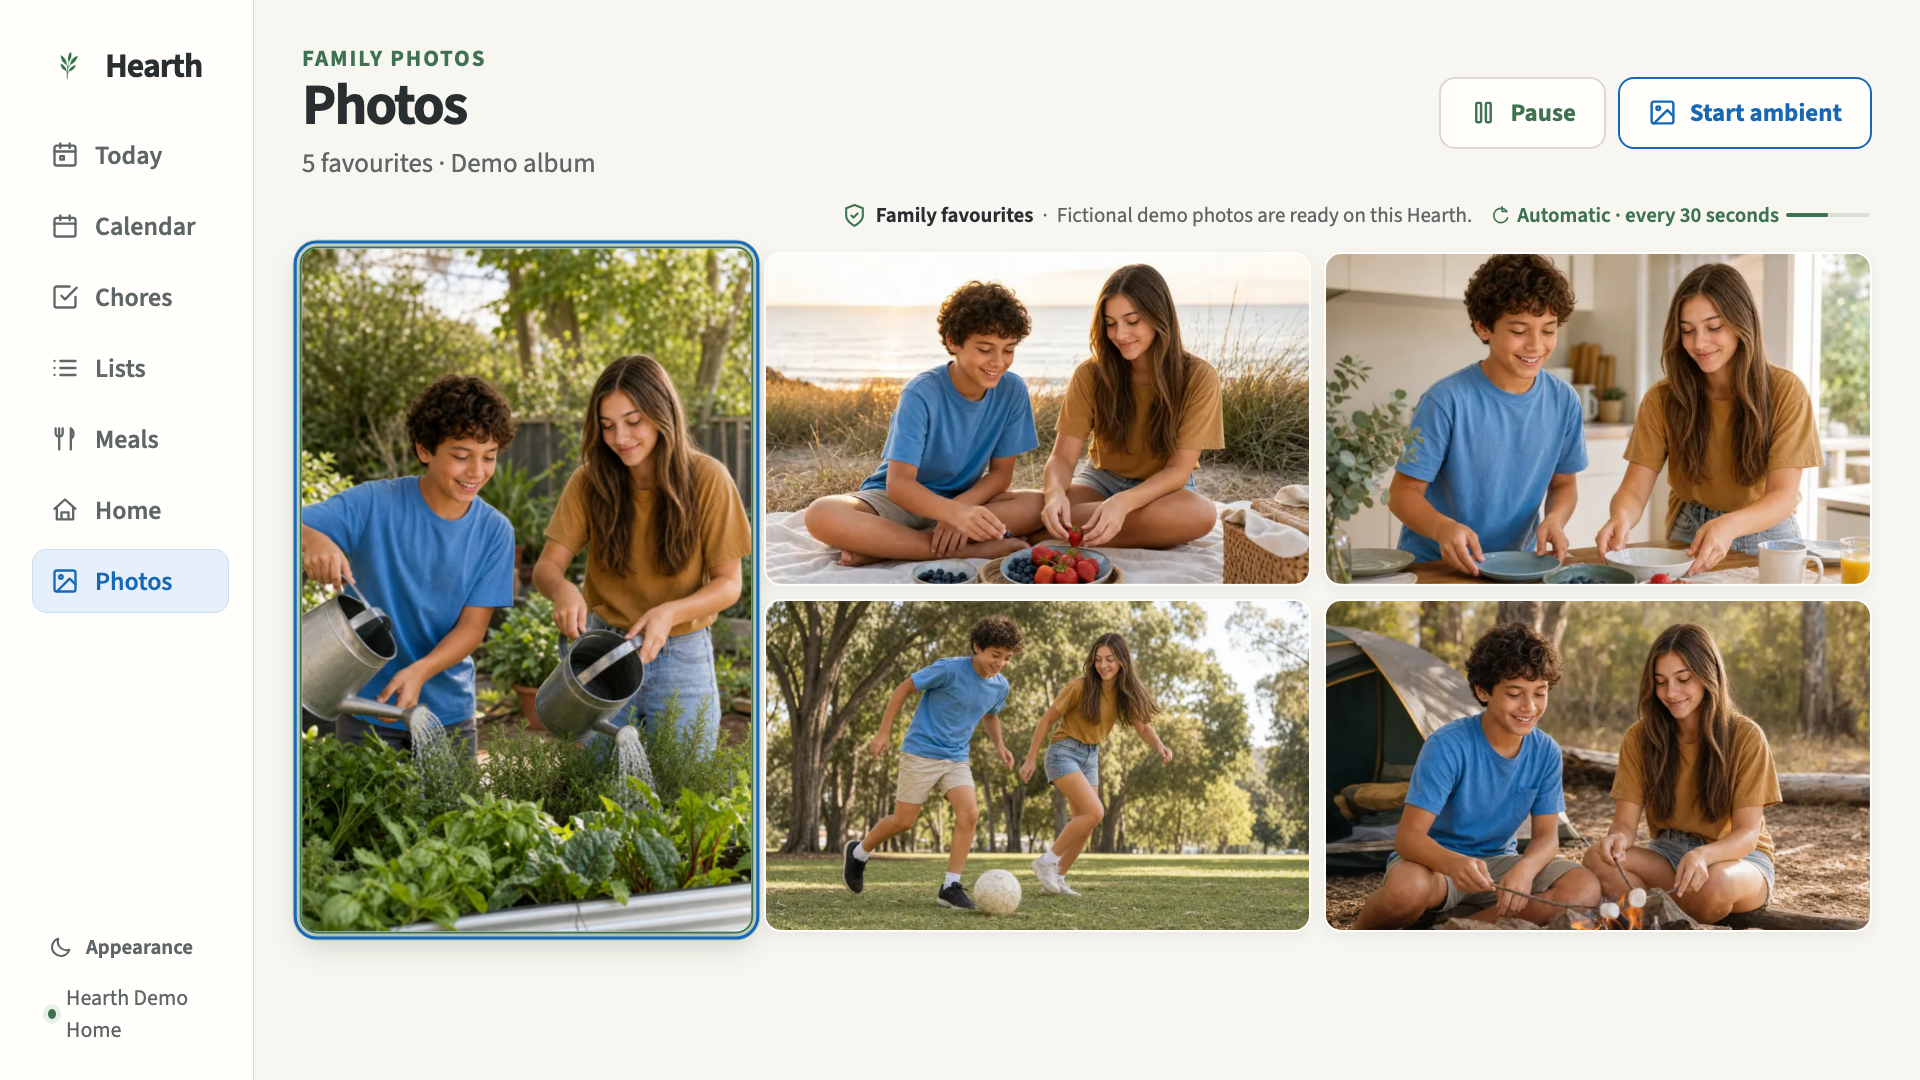
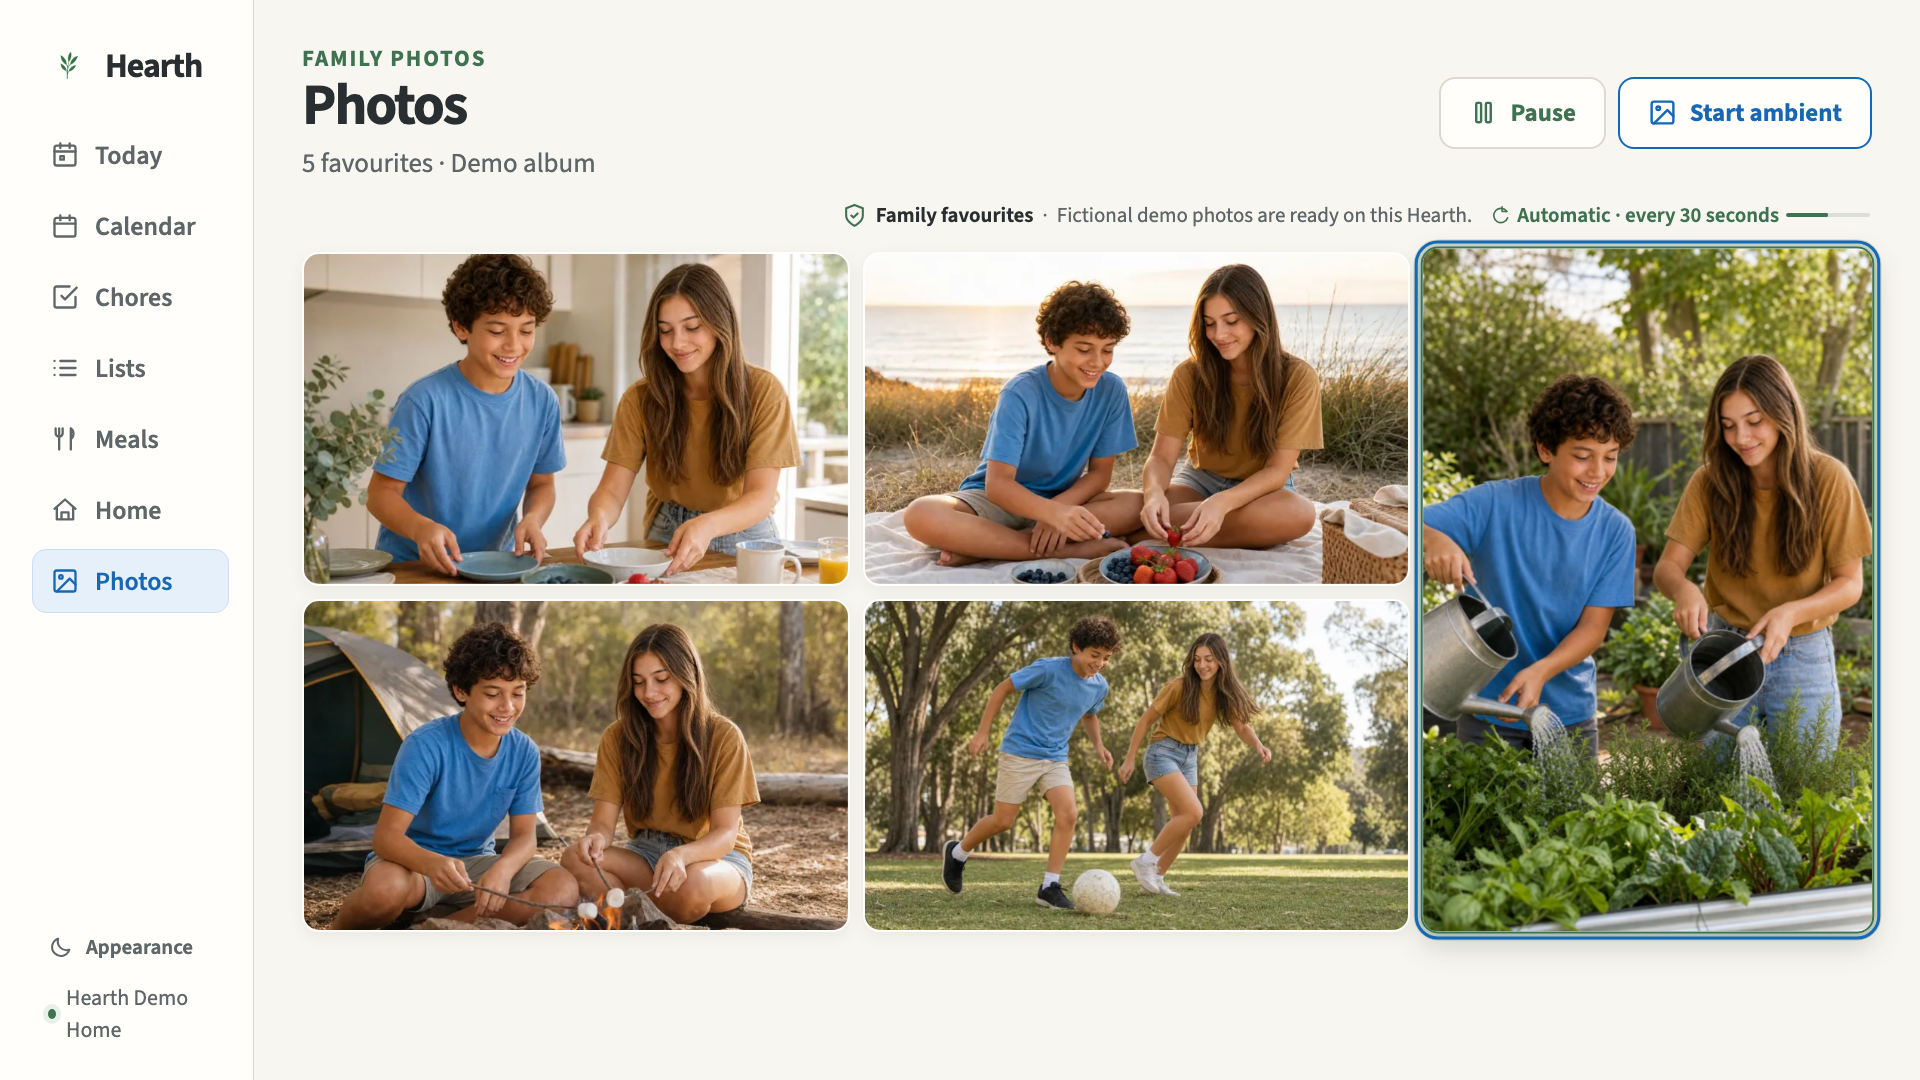
Alternate automatic photo collage layouts

diff --git a/hearth/apps/web/src/screens/PhotosScreen.tsx b/hearth/apps/web/src/screens/PhotosScreen.tsx
@@ -17,10 +17,13 @@ import { useHouseholdClock } from '../hooks/useHouseholdClock';
 import { useOnlineStatus } from '../hooks/useOnlineStatus';
 import {
   arrangePhotoCollage,
+  PHOTO_COLLAGE_SIZE,
   nextPhotoId,
   PHOTO_COLLAGE_ROTATION_MS,
+  photoCollageFeatureSide,
   photoCollageMode,
   type PhotoCollageItem,
+  type PhotoCollageFeatureSide,
   type PhotoCollageSlot,
 } from './photoCollage';
 
@@ -62,6 +65,11 @@ export function PhotosScreen({
   const collageItems = arrangePhotoCollage(gallery?.photos ?? [], selected?.id ?? null);
   const collageMode =
     collageItems[0] === undefined ? 'landscape' : photoCollageMode(collageItems[0].photo);
+  const collageFeatureSide = photoCollageFeatureSide(
+    gallery?.photos ?? [],
+    collageItems[0]?.photo.id ?? null,
+    gallery?.featuredPhotoId ?? gallery?.photos[0]?.id ?? null,
+  );
   const visibleCollageItems = compactLandscape ? collageItems.slice(0, 3) : collageItems;
 
   useEffect(() => {
@@ -266,7 +274,7 @@ export function PhotosScreen({
       <div className="photos-layout">
         <div
           aria-label="Family photos. The featured photo and collage arrangement change about once every 30 seconds."
-          className={`photos-grid photos-collage photos-collage--${collageMode} photos-collage--count-${visibleCollageItems.length}`}
+          className={`photos-grid photos-collage photos-collage--${collageMode} photos-collage--feature-${collageFeatureSide} photos-collage--count-${visibleCollageItems.length}`}
         >
           {visibleCollageItems.map((item) => (
             <PhotoThumbnail
@@ -275,6 +283,7 @@ export function PhotosScreen({
               key={item.slot}
               onSelect={() => selectPhoto(item.photo.id)}
               selected={item.photo.id === selected?.id}
+              featureSide={collageFeatureSide}
             />
           ))}
         </div>
@@ -321,14 +330,16 @@ function PhotoThumbnail({
   items,
   onSelect,
   selected,
+  featureSide,
 }: {
   item: PhotoCollageItem;
   items: PhotoCollageItem[];
   onSelect: () => void;
   selected: boolean;
+  featureSide: PhotoCollageFeatureSide;
 }) {
   const { photo, slot } = item;
-  const links = collageFocusLinks(slot, items);
+  const links = collageFocusLinks(slot, items, featureSide);
   const featured = slot === 'feature';
   return (
     <button
@@ -362,6 +373,7 @@ function PhotoThumbnail({
 function collageFocusLinks(
   slot: PhotoCollageSlot,
   items: PhotoCollageItem[],
+  featureSide: PhotoCollageFeatureSide,
 ): { up: string; down: string; left: string; right: string } {
   const bySlot = new Map(items.map((item) => [item.slot, `photos-thumb-${item.photo.id}`]));
   const feature = bySlot.get('feature') ?? 'photos-start-ambient';
@@ -370,7 +382,7 @@ function collageFocusLinks(
   const support3 = bySlot.get('support-3') ?? support2;
   const support4 = bySlot.get('support-4') ?? support3;
 
-  const links = {
+  const featureAtStart = {
     feature: { up: 'photos-start-ambient', down: feature, left: 'nav-photos', right: support1 },
     'support-1': {
       up: 'photos-start-ambient',
@@ -387,5 +399,25 @@ function collageFocusLinks(
     'support-3': { up: support1, down: support3, left: feature, right: support4 },
     'support-4': { up: support2, down: support4, left: support3, right: support4 },
   } satisfies Record<PhotoCollageSlot, { up: string; down: string; left: string; right: string }>;
-  return links[slot];
+
+  if (featureSide === 'start' || items.length < PHOTO_COLLAGE_SIZE) return featureAtStart[slot];
+
+  const featureAtEnd = {
+    feature: { up: 'photos-start-ambient', down: feature, left: support1, right: feature },
+    'support-1': {
+      up: 'photos-start-ambient',
+      down: support3,
+      left: support2,
+      right: feature,
+    },
+    'support-2': {
+      up: 'photos-start-ambient',
+      down: support4,
+      left: 'nav-photos',
+      right: support1,
+    },
+    'support-3': { up: support1, down: support3, left: support4, right: feature },
+    'support-4': { up: support2, down: support4, left: 'nav-photos', right: support3 },
+  } satisfies Record<PhotoCollageSlot, { up: string; down: string; left: string; right: string }>;
+  return featureAtEnd[slot];
 }

diff --git a/hearth/tests/e2e/photos.spec.ts b/hearth/tests/e2e/photos.spec.ts
@@ -167,6 +167,7 @@ test('the collage uses each photo once, fits both orientations and rotates calml
   );
   await expect(page.locator('.photos-hero')).toBeFocused();
   await expect(page.locator('.photos-collage--landscape')).toBeVisible();
+  await expect(page.locator('.photos-collage--feature-start')).toBeVisible();
   await expect(page.locator('.photos-hero')).not.toHaveAttribute(
     'data-photo-id',
     'photo_family_breakfast',
@@ -177,6 +178,17 @@ test('the collage uses each photo once, fits both orientations and rotates calml
     'data-photo-id',
     'photo_park_football',
   );
+  await expect(page.locator('.photos-collage--feature-end')).toBeVisible();
+  const mirroredFeatureBox = await page.locator('.photos-hero').boundingBox();
+  expect(mirroredFeatureBox?.x).toBeGreaterThan(900);
+  await captureEvidence(page, {
+    animations: 'disabled',
+    path: resolve(evidence, 'photos-auto-mirrored-tv-1080.png'),
+  });
+  await page.keyboard.press('ArrowLeft');
+  await expect(page.locator('.photo-collage__tile--support-1')).toBeFocused();
+  await page.keyboard.press('ArrowRight');
+  await expect(page.locator('.photos-hero')).toBeFocused();
   await expect(page.locator('.photos-hero')).toHaveAttribute(
     'data-photo-id',
     'photo_garden_morning',

diff --git a/hearth/apps/web/src/screens/photoCollage.ts b/hearth/apps/web/src/screens/photoCollage.ts
@@ -4,6 +4,7 @@ export const PHOTO_COLLAGE_ROTATION_MS = 30_000;
 export const PHOTO_COLLAGE_SIZE = 5;
 
 export type PhotoCollageMode = 'landscape' | 'portrait';
+export type PhotoCollageFeatureSide = 'start' | 'end';
 export type PhotoCollageSlot = 'feature' | 'support-1' | 'support-2' | 'support-3' | 'support-4';
 
 export interface PhotoCollageItem {
@@ -15,6 +16,19 @@ const SUPPORT_SLOTS: PhotoCollageSlot[] = ['support-1', 'support-2', 'support-3'
 
 export function photoCollageMode(photo: PhotoAsset): PhotoCollageMode {
   return photo.orientation === 'portrait' ? 'portrait' : 'landscape';
+}
+
+export function photoCollageFeatureSide(
+  photos: PhotoAsset[],
+  featuredId: string | null,
+  rotationStartId: string | null,
+): PhotoCollageFeatureSide {
+  if (photos.length < PHOTO_COLLAGE_SIZE) return 'start';
+  const featuredIndex = photos.findIndex((photo) => photo.id === featuredId);
+  const startIndex = photos.findIndex((photo) => photo.id === rotationStartId);
+  if (featuredIndex < 0 || startIndex < 0) return 'start';
+  const rotationIndex = (featuredIndex - startIndex + photos.length) % photos.length;
+  return rotationIndex % 2 === 1 ? 'end' : 'start';
 }
 
 export function nextPhotoId(photos: PhotoAsset[], currentId: string | null): string | null {

diff --git a/hearth/apps/web/src/screens/photoCollage.test.ts b/hearth/apps/web/src/screens/photoCollage.test.ts
@@ -1,7 +1,12 @@
 import type { PhotoAsset } from '@hearth/shared';
 import { describe, expect, it } from 'vitest';
 
-import { arrangePhotoCollage, nextPhotoId, photoCollageMode } from './photoCollage';
+import {
+  arrangePhotoCollage,
+  nextPhotoId,
+  photoCollageFeatureSide,
+  photoCollageMode,
+} from './photoCollage';
 
 function photo(id: string, orientation: PhotoAsset['orientation']): PhotoAsset {
   return {
@@ -68,5 +73,13 @@ describe('photo collage arrangement', () => {
     expect(nextPhotoId(photos, 'landscape-4')).toBe('landscape-1');
     expect(nextPhotoId(photos, null)).toBe('landscape-1');
     expect(nextPhotoId([], null)).toBeNull();
+  });
+
+  it('alternates the television feature side without mirroring sparse collages', () => {
+    expect(photoCollageFeatureSide(photos, 'landscape-2', 'landscape-2')).toBe('start');
+    expect(photoCollageFeatureSide(photos, 'portrait-1', 'landscape-2')).toBe('end');
+    expect(photoCollageFeatureSide(photos, 'landscape-3', 'landscape-2')).toBe('start');
+    expect(photoCollageFeatureSide(photos.slice(0, 4), 'portrait-1', 'landscape-2')).toBe('start');
+    expect(photoCollageFeatureSide(photos, 'missing', 'landscape-2')).toBe('start');
   });
 });

diff --git a/hearth/apps/web/src/screens/PhotosScreen.css b/hearth/apps/web/src/screens/PhotosScreen.css
@@ -113,6 +113,19 @@
     'feature support-1 support-2'
     'feature support-3 support-4';
 }
+@media (min-width: 901px) {
+  .photos-collage--landscape.photos-collage--feature-end {
+    grid-template-areas:
+      'support-2 support-1 feature feature'
+      'support-4 support-3 feature feature';
+  }
+  .photos-collage--portrait.photos-collage--feature-end {
+    grid-template-columns: repeat(2, minmax(0, 1fr)) minmax(260px, 0.82fr);
+    grid-template-areas:
+      'support-2 support-1 feature'
+      'support-4 support-3 feature';
+  }
+}
 .photos-collage--count-1 {
   grid-template-columns: minmax(0, 1fr);
   grid-template-rows: minmax(0, 1fr);
